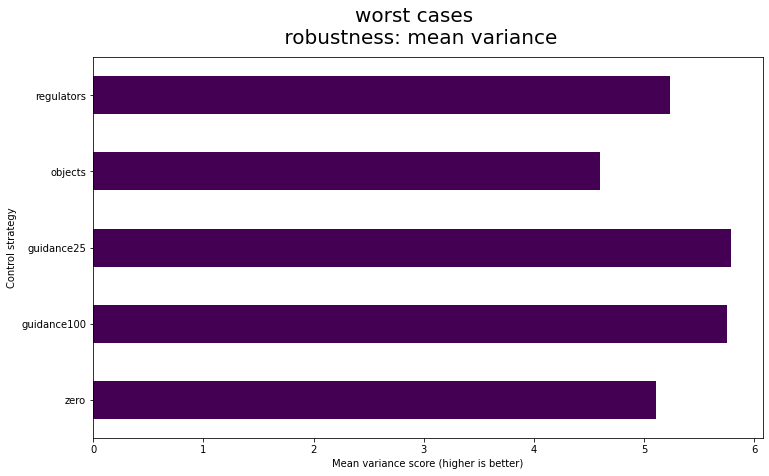
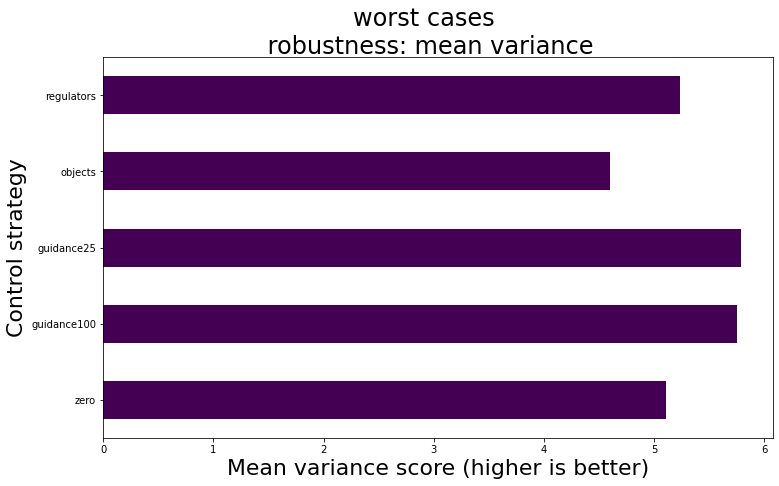
update

diff --git a/analysis/control_exploration_results.py b/analysis/control_exploration_results.py
@@ -252,8 +252,8 @@ if __name__ == "__main__":
             ]
         )
     ].plot.bar(ax=ax, colormap="viridis", rot=0)
-    fig.suptitle("Problematic cases \n raw max density", fontsize=20)
-    ax.set(ylabel="max density [#/m²]")
+    fig.suptitle("Problematic cases \n raw max density", fontsize=22)
+    ax.set_ylabel("max density [#/m²]", fontsize=22)
     fig.savefig("../figures/controlStrategiesRawMaxDensityS1.png", bbox_inches="tight")
 
     fig, ax = plt.subplots(figsize=(8, 6))
@@ -267,8 +267,8 @@ if __name__ == "__main__":
             ]
         )
     ].plot.bar(ax=ax, colormap="viridis", rot=0)
-    fig.suptitle("Good cases \n raw max density", fontsize=20)
-    ax.set(ylabel="max density [#/m²]")
+    fig.suptitle("Good cases \n raw max density", fontsize=22)
+    ax.set_ylabel("max density [#/m²]", fontsize=22)
     fig.savefig("../figures/controlStrategiesRawMaxDensityS2.png", bbox_inches="tight")
 
     fig, ax = plt.subplots(figsize=(8, 6))
@@ -282,8 +282,8 @@ if __name__ == "__main__":
             ]
         )
     ].plot.bar(ax=ax, colormap="viridis", rot=0)
-    fig.suptitle("worst cases \n raw max density", fontsize=20)
-    ax.set(ylabel="max density [#/m²]")
+    fig.suptitle("worst cases \n raw max density", fontsize=22)
+    ax.set_ylabel("max density [#/m²]", fontsize=22)
     fig.savefig("../figures/controlStrategiesRawMaxDensityS3.png", bbox_inches="tight")
 
     # plotting raw mean speed scores
@@ -291,24 +291,24 @@ if __name__ == "__main__":
     raw_outcomes_s1.loc[raw_outcomes_s1.index == "meanSpeed"].plot.barh(
         ax=ax, colormap="viridis"
     )
-    fig.suptitle("Problematic cases \n raw mean speed", fontsize=20)
-    ax.set(xlabel="mean speed [m/s]")
+    fig.suptitle("Problematic cases \n raw mean speed", fontsize=24)
+    ax.set_xlabel("mean speed [m/s]", fontsize=22)
     fig.savefig("../figures/controlStrategiesRawMeanSpeedS1.png", bbox_inches="tight")
 
     fig, ax = plt.subplots(figsize=(12, 7))
     raw_outcomes_s2.loc[raw_outcomes_s2.index == "meanSpeed"].plot.barh(
         ax=ax, colormap="viridis"
     )
-    fig.suptitle("Good cases \n raw mean speed", fontsize=20)
-    ax.set(xlabel="mean speed [m/s]")
+    fig.suptitle("Good cases \n raw mean speed", fontsize=24)
+    ax.set_xlabel("mean speed [m/s]", fontsize=22)
     fig.savefig("../figures/controlStrategiesRawMeanSpeedS2.png", bbox_inches="tight")
 
     fig, ax = plt.subplots(figsize=(12, 7))
     raw_outcomes_s1.loc[raw_outcomes_s1.index == "meanSpeed"].plot.barh(
         ax=ax, colormap="viridis"
     )
-    fig.suptitle("worst cases \n raw mean speed", fontsize=20)
-    ax.set(xlabel="mean speed [m/s]")
+    fig.suptitle("worst cases \n raw mean speed", fontsize=24)
+    ax.set_xlabel("mean speed [m/s]", fontsize=22)
     fig.savefig("../figures/controlStrategiesRawMeanSpeedS3.png", bbox_inches="tight")
 
     # plotting robustness averted scores
@@ -316,24 +316,27 @@ if __name__ == "__main__":
     r_averted_s1[["complete cases averted", "number of averted areas"]].plot.barh(
         ax=ax, colormap="viridis", rot=0
     ).legend(loc="lower right")
-    fig.suptitle("Problematic cases \n robustness: total averted", fontsize=20)
-    ax.set(xlabel="Total count", ylabel="Control strategy")
+    fig.suptitle("Problematic cases \n robustness: total averted", fontsize=24)
+    ax.set_xlabel("Total count", fontsize=22)
+    ax.set_ylabel(ylabel="Control strategy", fontsize=22)
     fig.savefig("../figures/controlStrategiesAvertedS1.png", bbox_inches="tight")
 
     fig, ax = plt.subplots(figsize=(12, 7))
     r_averted_s2[["complete cases averted", "number of averted areas"]].plot.barh(
         ax=ax, colormap="viridis", rot=0
     ).legend(loc="lower right")
-    fig.suptitle("Good cases \n robustness: total averted", fontsize=20)
-    ax.set(xlabel="Total count", ylabel="Control strategy")
+    fig.suptitle("Good cases \n robustness: total averted", fontsize=24)
+    ax.set_xlabel("Total count", fontsize=22)
+    ax.set_ylabel(ylabel="Control strategy", fontsize=22)
     fig.savefig("../figures/controlStrategiesAvertedS2.png", bbox_inches="tight")
 
     fig, ax = plt.subplots(figsize=(12, 7))
     r_averted_s3[["complete cases averted", "number of averted areas"]].plot.barh(
         ax=ax, colormap="viridis", rot=0
     ).legend(loc="lower right")
-    fig.suptitle("worst cases \n robustness: total averted", fontsize=20)
-    ax.set(xlabel="Total count", ylabel="Control strategy")
+    fig.suptitle("worst cases \n robustness: total averted", fontsize=24)
+    ax.set_xlabel("Total count", fontsize=22)
+    ax.set_ylabel(ylabel="Control strategy", fontsize=22)
     fig.savefig("../figures/controlStrategiesAvertedS3.png", bbox_inches="tight")
 
     # plotting robustness mean variance speed
@@ -341,7 +344,7 @@ if __name__ == "__main__":
     r_mean_variance_s1[["meanSpeed"]].plot.barh(
         ax=ax, colormap="viridis", rot=0, legend=False
     )
-    fig.suptitle("Problematic cases \n robustness: mean variance", fontsize=20)
+    fig.suptitle("Problematic cases \n robustness: mean variance", fontsize=24)
     ax.set(xlabel="Mean variance score (higher is better)", ylabel="Control strategy")
     fig.savefig(
         "../figures/controlStrategiesMeanVarianceSpeedS1.png", bbox_inches="tight"
@@ -350,8 +353,9 @@ if __name__ == "__main__":
     r_mean_variance_s2[["meanSpeed"]].plot.barh(
         ax=ax, colormap="viridis", rot=0, legend=False
     )
-    fig.suptitle("Good cases \n robustness: mean variance", fontsize=20)
-    ax.set(xlabel="Mean variance score (higher is better)", ylabel="Control strategy")
+    fig.suptitle("Good cases \n robustness: mean variance", fontsize=24)
+    ax.set_xlabel("Mean variance score (higher is better)", fontsize=22)
+    ax.set_ylabel("Control strategy", fontsize=22)
     fig.savefig(
         "../figures/controlStrategiesMeanVarianceSpeedS2.png", bbox_inches="tight"
     )
@@ -359,8 +363,9 @@ if __name__ == "__main__":
     r_mean_variance_s3[["meanSpeed"]].plot.barh(
         ax=ax, colormap="viridis", rot=0, legend=False
     )
-    fig.suptitle("worst cases \n robustness: mean variance", fontsize=20)
-    ax.set(xlabel="Mean variance score (higher is better)", ylabel="Control strategy")
+    fig.suptitle("worst cases \n robustness: mean variance", fontsize=24)
+    ax.set_xlabel("Mean variance score (higher is better)", fontsize=22)
+    ax.set_ylabel("Control strategy", fontsize=22)
     fig.savefig(
         "../figures/controlStrategiesMeanVarianceSpeedS3.png", bbox_inches="tight"
     )
@@ -370,8 +375,9 @@ if __name__ == "__main__":
     r_mean_variance_s1[
         ["maxDensityArea1", "maxDensityArea2", "maxDensityArea3", "maxDensityArea4"]
     ].T.plot.bar(ax=ax, colormap="viridis", rot=0)
-    fig.suptitle("Problematic cases \n robustness: mean variance", fontsize=20)
-    ax.set(xlabel="Control strategy", ylabel="Mean variance score \n (lower is better)")
+    fig.suptitle("Problematic cases \n robustness: mean variance", fontsize=24)
+    ax.set_xlabel("Control strategy", fontsize=22)
+    ax.set_ylabel("Mean variance score (higher is better)", fontsize=22)
     fig.savefig(
         "../figures/controlStrategiesMeanVarianceMaxDensityS1.png", bbox_inches="tight"
     )
@@ -379,8 +385,9 @@ if __name__ == "__main__":
     r_mean_variance_s2[
         ["maxDensityArea1", "maxDensityArea2", "maxDensityArea3", "maxDensityArea4"]
     ].T.plot.bar(ax=ax, colormap="viridis", rot=0)
-    fig.suptitle("Good cases \n robustness: mean variance", fontsize=20)
-    ax.set(xlabel="Control strategy", ylabel="Mean variance score \n (lower is better)")
+    fig.suptitle("Good cases \n robustness: mean variance", fontsize=24)
+    ax.set_xlabel("Control strategy", fontsize=22)
+    ax.set_ylabel("Mean variance score (higher is better)", fontsize=22)
     fig.savefig(
         "../figures/controlStrategiesMeanVarianceMaxDensityS2.png", bbox_inches="tight"
     )
@@ -388,8 +395,9 @@ if __name__ == "__main__":
     r_mean_variance_s3[
         ["maxDensityArea1", "maxDensityArea2", "maxDensityArea3", "maxDensityArea4"]
     ].T.plot.bar(ax=ax, colormap="viridis", rot=0)
-    fig.suptitle("Worst cases \n robustness: mean variance", fontsize=20)
-    ax.set(xlabel="Control strategy", ylabel="Mean variance score \n (lower is better)")
+    fig.suptitle("Worst cases \n robustness: mean variance", fontsize=24)
+    ax.set_xlabel("Control strategy", fontsize=22)
+    ax.set_ylabel("Mean variance score (higher is better)", fontsize=22)
     fig.savefig(
         "../figures/controlStrategiesMeanVarianceMaxDensityS3.png", bbox_inches="tight"
     )

diff --git a/analysis/control_exploration.py b/analysis/control_exploration.py
@@ -80,7 +80,7 @@ if __name__ == "__main__":
                 with MultiprocessingEvaluator(model, n_processes=20) as evaluator:
                     results = evaluator.perform_experiments(get_scenarios(se))
             else:
-                with MultiprocessingEvaluator(model) as evaluator:
+                with MultiprocessingEvaluator(model, n_processes=20) as evaluator:
                     results = evaluator.perform_experiments(get_scenarios(se))
 
             # store results
